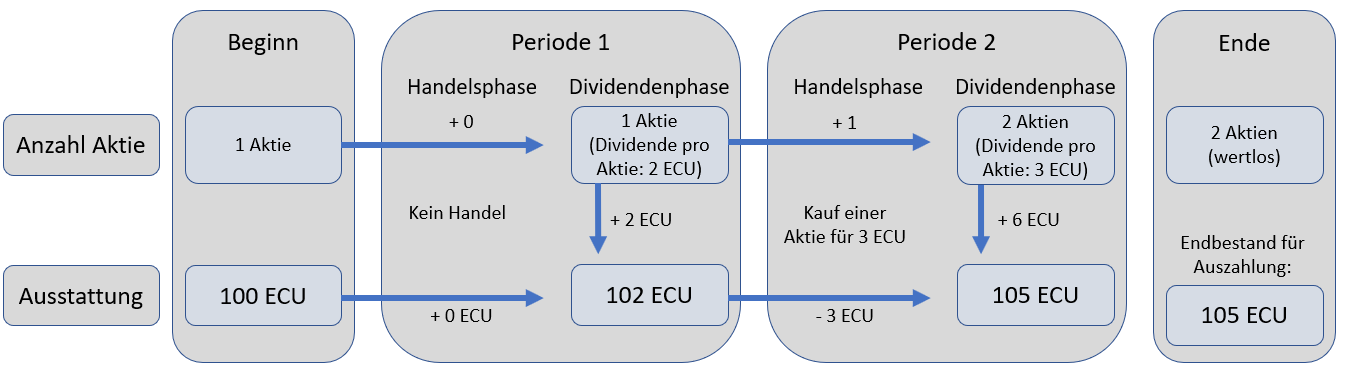
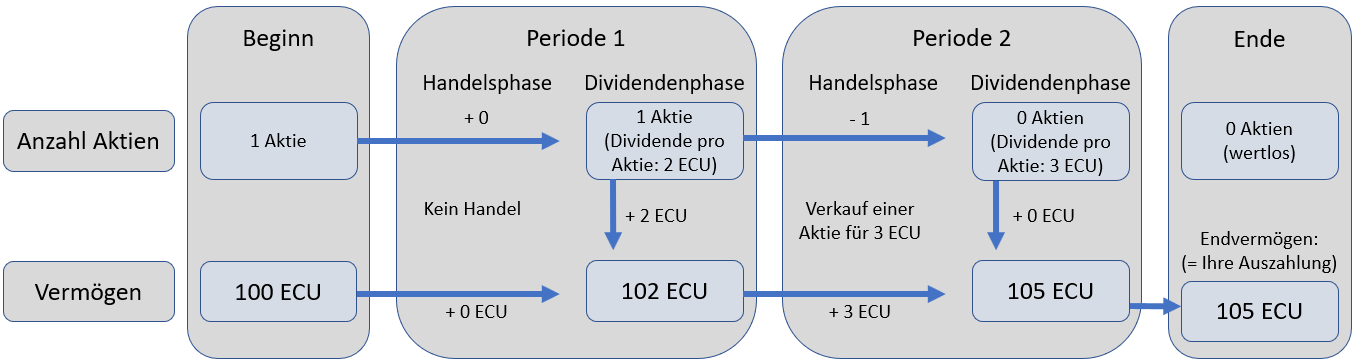
Neue Beispiele

diff --git a/Train/templates/Train/content/train_beispiel.html b/Train/templates/Train/content/train_beispiel.html
@@ -19,6 +19,8 @@
     <p>
         Bei den folgenden Beispiele haben Sie zu Beginn 1 Aktie in Ihrem Protfolio sowie ein Anfangsvermögen in Höhe von {{ 100|c }}.
     </p>
+
+
     <p>
         <b>Beispiel 1:</b>
     </p>
@@ -27,47 +29,40 @@
     <p>
         <i>Endvermögen:</i> Sie erhalten zunächst in beiden Perioden jeweils eine Dividende. Die Aktie ist nach Ablauf der letzten Periode für Sie wertlos. Das Endvermögen bemisst sich folglich aus dem Anfangsvermögen ({{ 100|c }}) und den Dividendenzahlungen  ({{ 2|c }} + {{ 3|c }}).
     </p>
-
-
-
     <p>
         <center>
              <img src="{% static "ReputationCosts/Screenshots/Train_Fall_1.png" %}" width="65%"/>
         </center>
     </p>
+
+
     <p>
-        Das gleiche gilt für eine Aktie, die Sie in der ersten Handelsphase kaufen. Sie erhalten für diese in der ersten Dividendenphase eine Ausschüttung. Wenn Sie die Aktie in der zweiten Dividendenphase nicht verkaufen, erhalten Sie auch in der zweiten Dividendenphase die Ausschüttung. Wenn keine weiteren Perioden gespielt werden, dann ist die Aktie für Sie wertlos, da Sie keine Ausschüttungen mehr erhalten und so Ihr Vermögen nicht mehr verändert wird:
+        <b>Beispiel 2:</b>
     </p>
     <p>
+        <i>Annahme:</i> Sie kaufen eine Aktie in der ersten Periode. </p>
+    <p>
+        <i>Endvermögen:</i> Von Ihrem Anfangsvermögen wird der Kaufpreis der Aktie abgezogen. Sie erhalten jedoch nun für zwei Aktien in Ihrem Portfolio die Dividenden. Das Endvermögen bemisst sich folglich aus dem Anfangsvermögen ({{ 100|c }}) abzüglich des Kaufpreises ({{ 6|c }}) und den Dividendenzahlungen  ({{ 4|c }} + {{ 6|c }}).
+    </p>
         <center>
              <img src="{% static "ReputationCosts/Screenshots/Train_Fall_2.png" %}" width="65%"/>
         </center>
     </p>
+
+
     <p>
-        Kaufen Sie eine Aktie erst in der zweiten Handelsrunde, dann erhalten Sie für diese nur noch eine Dividendenauszahlung:
+        <b>Beispiel 3:</b>
     </p>
     <p>
+        <i>Annahme:</i> Sie verkaufen eine Aktie in der zweiten Periode. </p>
+    <p>
+        <i>Endvermögen:</i> Zusätzlich zur Dividende der ersten Periode erhalten Sie den Verkaufspreis. Das Endvermögen bemisst sich folglich aus dem Anfangsvermögen ({{ 100|c }}), der Dividendenzahlung  ({{ 2|c }} und des Verkaufspreises {{ 3|c }}).
+    </p>
         <center>
              <img src="{% static "ReputationCosts/Screenshots/Train_Fall_3.png" %}" width="65%"/>
         </center>
     </p>
-    <p>
-        Verkaufen Sie eine Aktie beispielsweise in der ersten Handelsphase, dann wird der Verkaufspreis Ihrem Vermögen gutgeschrieben. Sie erhalten für diese Aktie in allen darauffolgenden Dividendenphasen keine Ausschüttung mehr.  Sie können das erhaltene Geld in Ihrem Vermögen belassen. Das Vermögen nach Ablauf der letzten Dividendenphase wird an Sie ausgezahlt:
-    </p>
-    <p>
-        <center>
-             <img src="{% static "ReputationCosts/Screenshots/Train_Fall_4.png" %}" width="65%"/>
-        </center>
-    </p>
 
-    <p>
-        Sie können das erhaltene Geld aus Verkäufen von Aktien in den folgenden Perioden auch wieder in Aktien investieren:
-    </p>
-    <p>
-        <center>
-             <img src="{% static "ReputationCosts/Screenshots/Train_Fall_1.png" %}" width="65%"/>
-        </center>
-    </p>
 
 
 

diff --git a/Train/templates/Train/comp_template/Try.html b/Train/templates/Train/comp_template/Try.html
@@ -27,13 +27,13 @@
                                 </p>
                                     <table align="center" >
                                         <tr style="font-size:10pt;">
-                                            <th colspan="2">Erwartete Dividende pro Periode </th>
+                                            <th>Erwartete Dividende pro Aktie und Periode </th>
                                         </tr>
                                         <tr style="background: whitesmoke; font-size:10pt;">
-                                            <td rowspan="2" width="200px">Mögliche Dividende pro Aktie: </td> <td style="text-align:center" width="250px">Mit einer Wahrscheinlichkeit von je 20 % </td>
+                                            <td width="450px">Mit einer Wahrscheinlichkeit von je 20 % </td>
                                         </tr>
                                          <tr style="background: whitesmoke; font-size:10pt;">
-                                            <td style="text-align:center" width="250px">[1, 2, 3, 4, 5] ECU </td>
+                                            <td style="text-align:center" width="450px">[1, 2, 3, 4, 5] ECU </td>
                                         </tr>
                                     </table>
 
